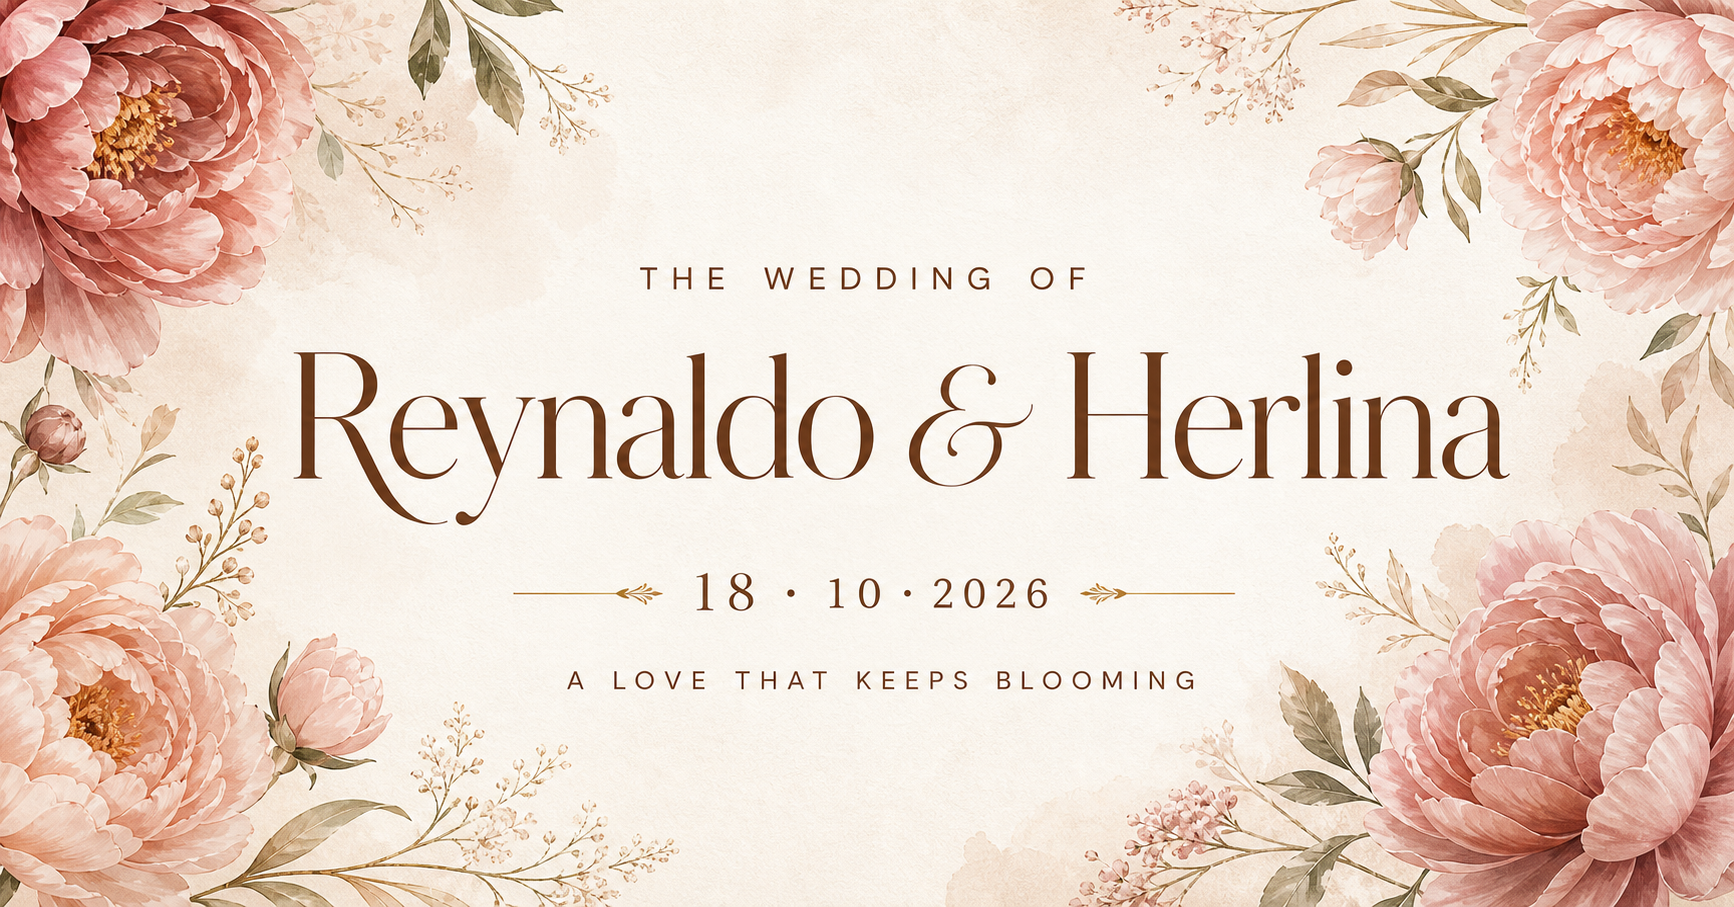
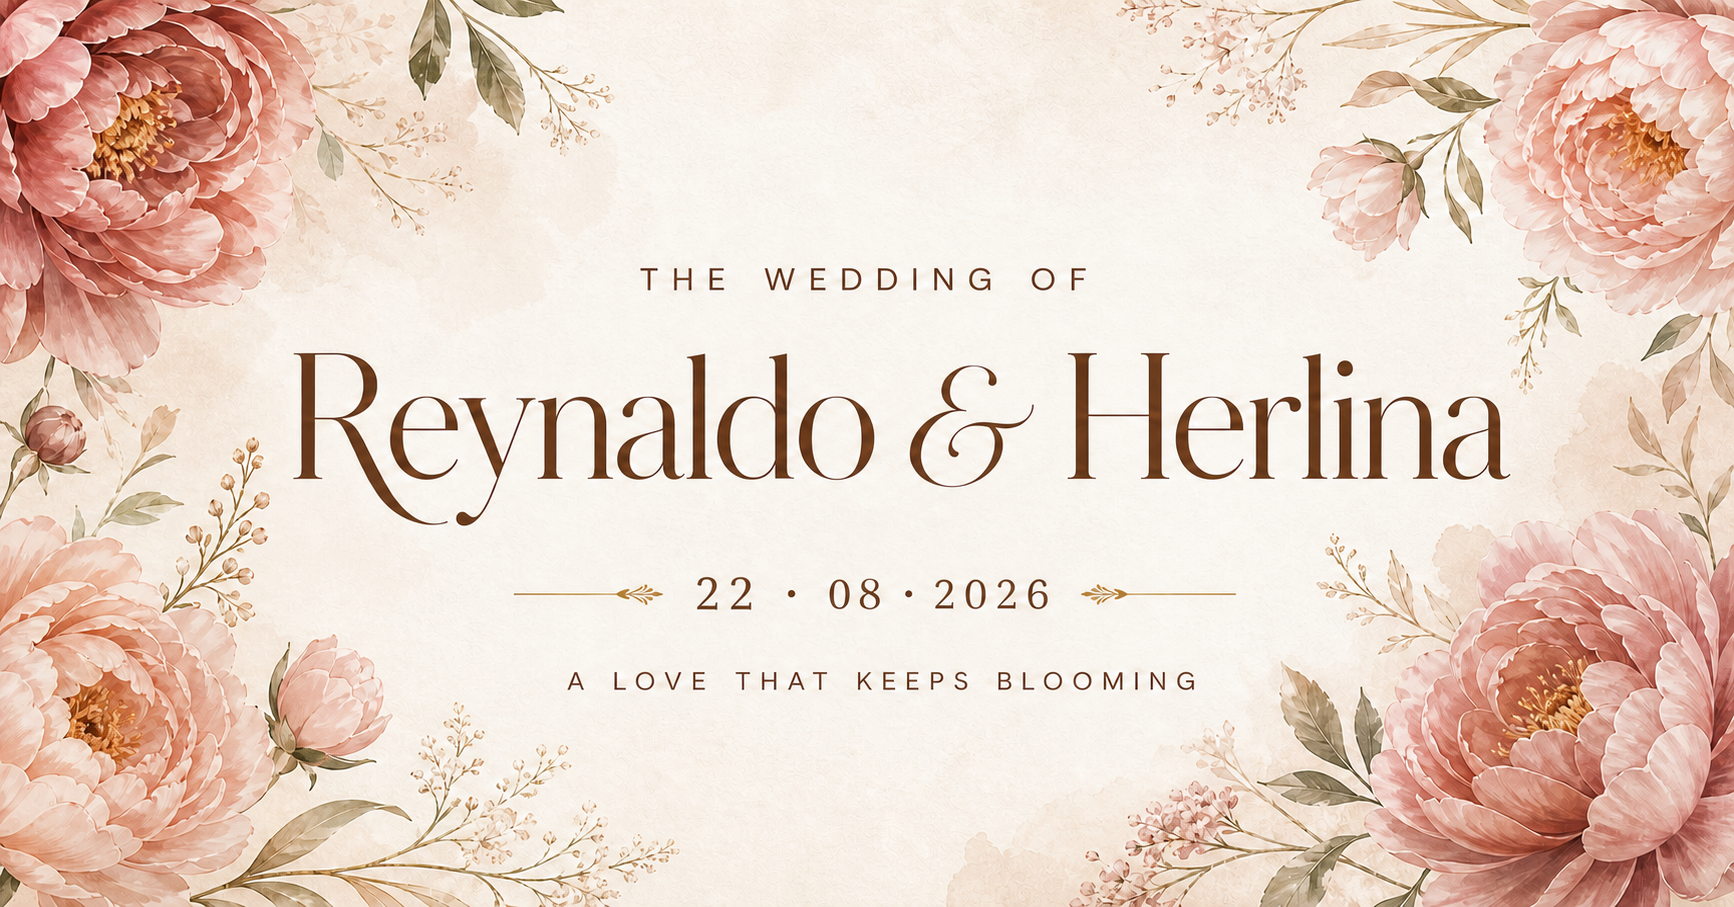
Update wedding date and venue details

diff --git a/app/page.tsx b/app/page.tsx
@@ -2,7 +2,7 @@
 
 import { FormEvent, useEffect, useMemo, useState } from "react";
 
-const weddingDate = new Date("2026-10-18T10:00:00+07:00");
+const weddingDate = new Date("2026-08-22T10:00:00+07:00");
 
 function Flower({ className = "" }: { className?: string }) {
   return (
@@ -85,7 +85,7 @@ export default function Home() {
           <div className="heroBloom bloomRight"><Flower /><Flower /><Flower /></div>
           <p className="eyebrow">Two hearts, one promise</p>
           <h2>Reynaldo <span>&amp;</span><br />Herlina</h2>
-          <p className="heroDate">18 · 10 · 2026</p>
+          <p className="heroDate">22 · 08 · 2026</p>
           <p className="heroCopy">Sebuah perayaan tentang cinta yang tumbuh,<br />berakar dalam doa, dan mekar selamanya.</p>
           <a className="textLink" href="#event">Simpan tanggalnya <span>↓</span></a>
           <div className="heroSeal">R <i>&amp;</i> H<small>ever blooming</small></div>
@@ -142,25 +142,25 @@ export default function Home() {
             <article className="eventCard">
               <span className="eventNo">01</span>
               <p className="role">Pemberkatan</p>
-              <h3>Minggu, 18 Oktober 2026</h3>
-              <p className="time">10.00 <small>WIB</small></p>
+              <h3>Sabtu, 22 Agustus 2026</h3>
+              <p className="time">10.00–12.00 <small>WIB</small></p>
               <div className="rule" />
-              <h4>Nama Gereja</h4>
-              <p>Alamat lengkap lokasi pemberkatan</p>
-              <a href="https://maps.google.com" target="_blank" rel="noreferrer">Lihat lokasi ↗</a>
+              <h4>Gereja JKI Hananeel Cinta</h4>
+              <p>Blok Jl. Pangeran Tubagus Angke No.2 13, RT.13/RW.7, Jelambar Baru, Kec. Grogol Petamburan, Kota Jakarta Barat, DKI Jakarta 11460</p>
+              <a href="https://www.google.com/maps/search/?api=1&query=Gereja%20JKI%20Hananeel%20Cinta%20Jelambar%20Baru%20Jakarta%20Barat" target="_blank" rel="noreferrer">Lihat lokasi ↗</a>
             </article>
             <article className="eventCard reception">
               <span className="eventNo">02</span>
               <p className="role">Resepsi</p>
-              <h3>Minggu, 18 Oktober 2026</h3>
-              <p className="time">13.00 <small>WIB</small></p>
+              <h3>Sabtu, 22 Agustus 2026</h3>
+              <p className="time">18.00–22.00 <small>WIB</small></p>
               <div className="rule" />
-              <h4>Nama Gedung</h4>
-              <p>Alamat lengkap lokasi resepsi</p>
-              <a href="https://maps.google.com" target="_blank" rel="noreferrer">Lihat lokasi ↗</a>
+              <h4>Arion Suites Hotel Kemang</h4>
+              <p>Jl. Kemang Raya No.7, RT.4/RW.1, Bangka, Kec. Mampang Prapatan, Kota Jakarta Selatan, DKI Jakarta 12730</p>
+              <a href="https://www.google.com/maps/search/?api=1&query=Arion%20Suites%20Hotel%20Kemang%20Jakarta" target="_blank" rel="noreferrer">Lihat lokasi ↗</a>
             </article>
           </div>
-          <a className="calendarButton" href="https://calendar.google.com/calendar/render?action=TEMPLATE&text=Reynaldo%20%26%20Herlina%20Wedding&dates=20261018T030000Z/20261018T090000Z" target="_blank" rel="noreferrer">＋ Tambahkan ke Kalender</a>
+          <a className="calendarButton" href="https://calendar.google.com/calendar/render?action=TEMPLATE&text=Reynaldo%20%26%20Herlina%20Wedding&dates=20260822T030000Z/20260822T150000Z&details=Pemberkatan%2010.00%E2%80%9312.00%20WIB%20di%20Gereja%20JKI%20Hananeel%20Cinta.%20Resepsi%2018.00%E2%80%9322.00%20WIB%20di%20Arion%20Suites%20Hotel%20Kemang.&location=Jakarta" target="_blank" rel="noreferrer">＋ Tambahkan ke Kalender</a>
         </section>
 
         <section className="gallery section" id="gallery">

diff --git a/app/layout.tsx b/app/layout.tsx
@@ -14,7 +14,7 @@ export async function generateMetadata(): Promise<Metadata> {
     icons: { icon: "/favicon.svg" },
     openGraph: {
       title: "The Wedding of Reynaldo & Herlina",
-      description: "18 · 10 · 2026 — A love that keeps blooming.",
+      description: "22 · 08 · 2026 — A love that keeps blooming.",
       images: [{ url: image, width: 1736, height: 907, alt: "The Wedding of Reynaldo & Herlina" }],
       type: "website",
     },
